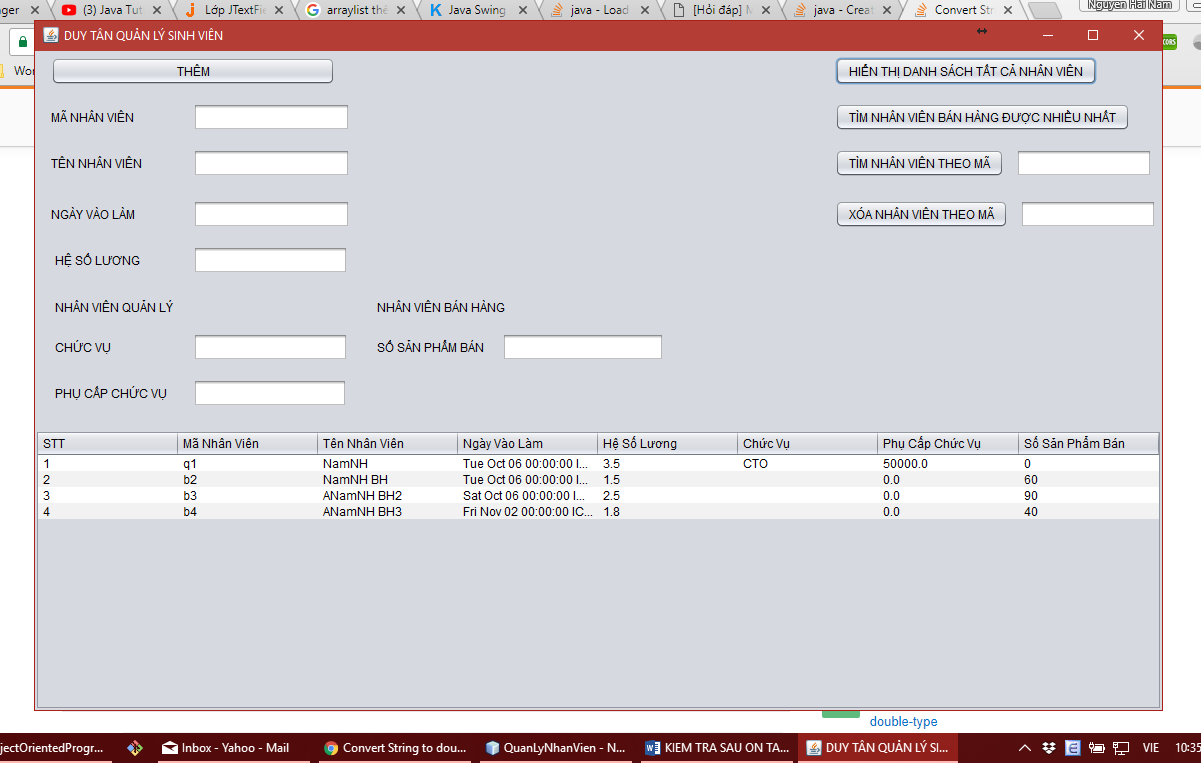
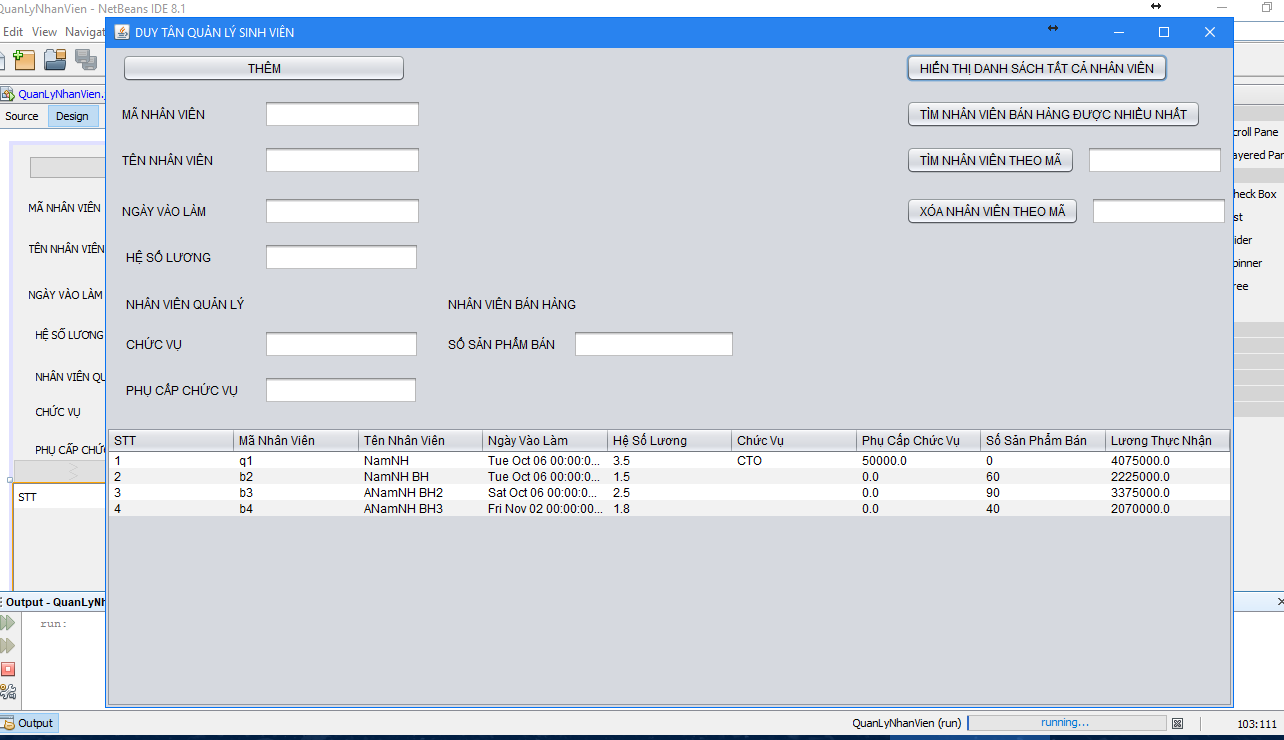
update

Changed region(s): [[0.0, 0.0, 1.0, 1.0]]

diff --git a/QuanLyNhanVien/src/quanlynhanvien/QuanLyNhanVienFrame.java b/QuanLyNhanVien/src/quanlynhanvien/QuanLyNhanVienFrame.java
@@ -48,7 +48,7 @@ public class QuanLyNhanVienFrame extends javax.swing.JFrame {
 
     private void loadTable(DanhSachNhanVien ds) throws ParseException{
         this.tableModel = (DefaultTableModel) jTable1.getModel();
-        Object rowData[] = new Object[8];
+        Object rowData[] = new Object[9];
         if(tableModel.getRowCount() < ds.danhSach.size()){
             for (int i = 0; i < ds.danhSach.size(); i++) {
                 NhanVien nv = ds.danhSach.get(i);
@@ -60,6 +60,7 @@ public class QuanLyNhanVienFrame extends javax.swing.JFrame {
                 String chucVu = null;
                 double phuCapChucVu = 0;
                 int soSanPhamBan = 0;
+                double luongThucNhan = 0;
                 if(nv instanceof NVBanHang){
                     NVBanHang nvbh = (NVBanHang) nv;
 
@@ -70,6 +71,7 @@ public class QuanLyNhanVienFrame extends javax.swing.JFrame {
     //                chucVu = null;
     //                phuCapChucVu = 0;
                     soSanPhamBan = nvbh.getSoSanPhamBan();
+                    luongThucNhan = nvbh.tinhLuongThucNhan();
                 }
                 if(nv instanceof NVQuanLy){
                     NVQuanLy nvql = (NVQuanLy) nv;
@@ -81,6 +83,7 @@ public class QuanLyNhanVienFrame extends javax.swing.JFrame {
                     chucVu = nvql.getChucVu();
                     phuCapChucVu = nvql.getPhuCapChucVu();
     //                soSanPhamBan = 0;
+                    luongThucNhan = nvql.tinhLuongThucNhan();
                 }
                 rowData[0] = stt+1;
                 rowData[1] = maNhanVien;
@@ -90,13 +93,14 @@ public class QuanLyNhanVienFrame extends javax.swing.JFrame {
                 rowData[5] = chucVu;
                 rowData[6] = phuCapChucVu;
                 rowData[7] = soSanPhamBan;
+                rowData[8] = luongThucNhan;
                 tableModel.addRow(rowData);
             }
         }
     }
     
     private Object[] loadColumnName(){
-        return new Object[]{"STT","Mã Nhân Viên","Tên Nhân Viên","Ngày Vào Làm","Hệ Số Lương","Chức Vụ","Phụ Cấp Chức Vụ","Số Sản Phẩm Bán"};
+        return new Object[]{"STT","Mã Nhân Viên","Tên Nhân Viên","Ngày Vào Làm","Hệ Số Lương","Chức Vụ","Phụ Cấp Chức Vụ","Số Sản Phẩm Bán","Lương Thực Nhận"};
     }
 
 //    {1,"q1","NamNH",new SimpleDateFormat(dateFormat).parse("06/10/2009"),3.5,"CTO",50000},
@@ -179,7 +183,7 @@ public class QuanLyNhanVienFrame extends javax.swing.JFrame {
 
             },
             new String [] {
-                "STT", "Mã Nhân Viên", "Tên Nhân Viên", "Ngày Vào Làm", "Hệ Số Lương", "Chức Vụ", "Phụ Cấp Chức Vụ", "Số Sản Phẩm Bán"
+                "STT", "Mã Nhân Viên", "Tên Nhân Viên", "Ngày Vào Làm", "Hệ Số Lương", "Chức Vụ", "Phụ Cấp Chức Vụ", "Số Sản Phẩm Bán", "Lương Thực Nhận"
             }
         ));
         jScrollPane1.setViewportView(jTable1);
